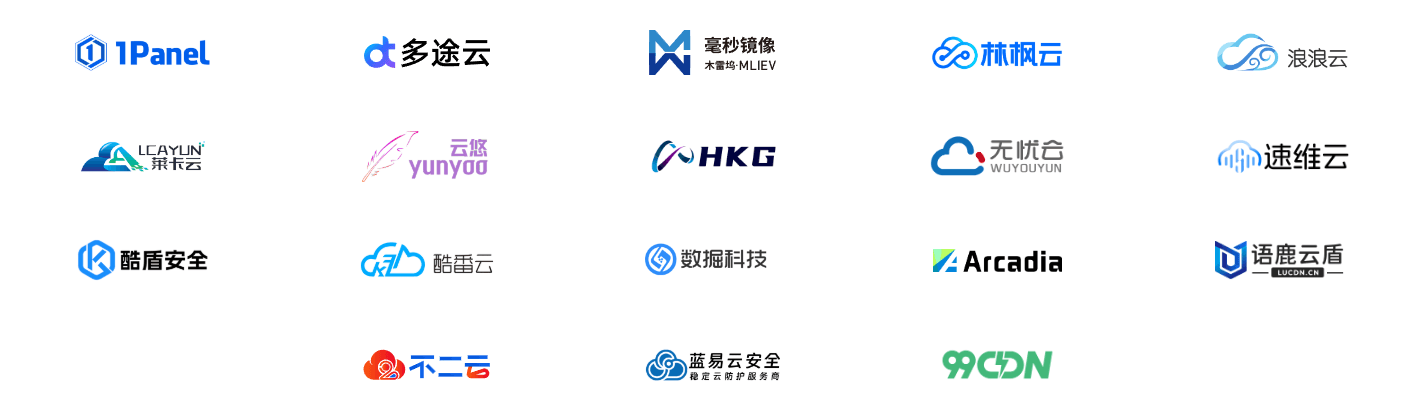
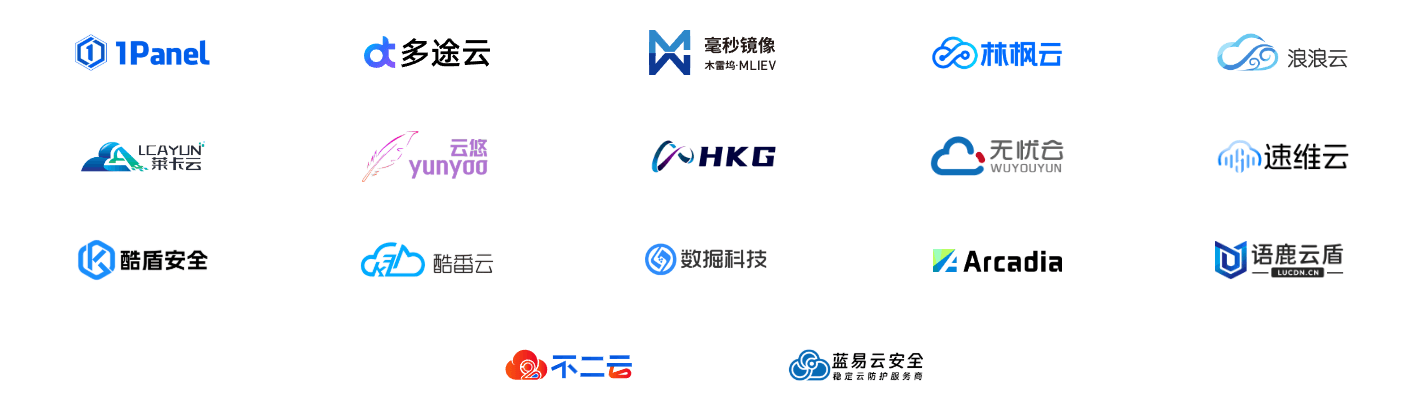
更新文档

Changed region(s): [[0.2468, 0.8438, 0.7405, 0.9375]]

diff --git a/docs/theme/partials/toc.html b/docs/theme/partials/toc.html
@@ -14,7 +14,7 @@
         <strong>{{'Sponsors' if i18n_page_locale == 'en' else '贊助商' if i18n_page_locale == 'zh-Hant' else '赞助商'}}</strong>
       </div>
       <div class="sponsor-wrapper sponsor-flex-wrapper-toc no-select">
-        <a class="sponsor-item sponsor-item-toc" target="_blank" rel="noopener noreferrer" href="https://1panel.cn" title="新一代的 Linux 服务器运维管理面板">
+        <a class="sponsor-item sponsor-item-toc sponsor-item-toc-full-row" target="_blank" rel="noopener noreferrer" href="https://1panel.cn" title="新一代的 Linux 服务器运维管理面板">
           <img src="/assets/images/sponsor/1panel.png" alt="1Panel" style="filter: grayscale(1) invert(0.6)" />
         </a>
         <a class="sponsor-item sponsor-item-toc" target="_blank" rel="noopener noreferrer" href="https://www.duotuyun.com" title="智能化防护，每一次连接皆在安全之下">
@@ -80,10 +80,6 @@
         <a class="sponsor-item sponsor-item-toc" target="_blank" rel="noopener noreferrer" href="https://www.tsycdn.com" title="高防CDN，国内BGP多线/香港/死扛CC/DDos攻击">
           <img src="/assets/images/sponsor/lanyiyun-light.png#only-light" alt="蓝易云" style="filter: grayscale(1) invert(0.3)" />
           <img src="/assets/images/sponsor/lanyiyun-dark.png#only-dark" alt="蓝易云" style="filter: grayscale(1) invert(0.7)" />
-        </a>
-        <a class="sponsor-item sponsor-item-toc" target="_blank" rel="noopener noreferrer" href="https://www.99cdn.com" title="自建 CDN 平台，自主管理节点｜智能流量调度｜多级缓存加速">
-          <img src="/assets/images/sponsor/99cdn.png#only-light" alt="99CDN" style="filter: grayscale(1) invert(0.3)" />
-          <img src="/assets/images/sponsor/99cdn.png#only-dark" alt="99CDN" style="filter: grayscale(1) invert(0.6)" />
         </a>
         <!-- <a class="sponsor-item sponsor-item-toc" target="_blank" rel="noopener noreferrer" title="{{'Become a Sponsor' if i18n_page_locale == 'en' else '成為贊助商' if i18n_page_locale == 'zh-Hant' else '成为赞助商'}}" href="/sponsor/">
           <span style="font-size: 0.6rem; opacity: 0.5">

diff --git a/docs/sponsor/main.html b/docs/sponsor/main.html
@@ -81,10 +81,6 @@
       <img src="/assets/images/sponsor/lanyiyun-light.png#only-light" alt="蓝易云" />
       <img src="/assets/images/sponsor/lanyiyun-dark.png#only-dark" alt="蓝易云" />
     </a>
-    <a class="sponsor-item sponsor-item-flex" target="_blank" rel="noopener noreferrer" href="https://www.99cdn.com" title="自建 CDN 平台，自主管理节点｜智能流量调度｜多级缓存加速">
-      <!-- 26 8 29 -->
-      <img src="/assets/images/sponsor/99cdn.png" alt="99CDN" />
-    </a>
   </div>
 </div>
 
